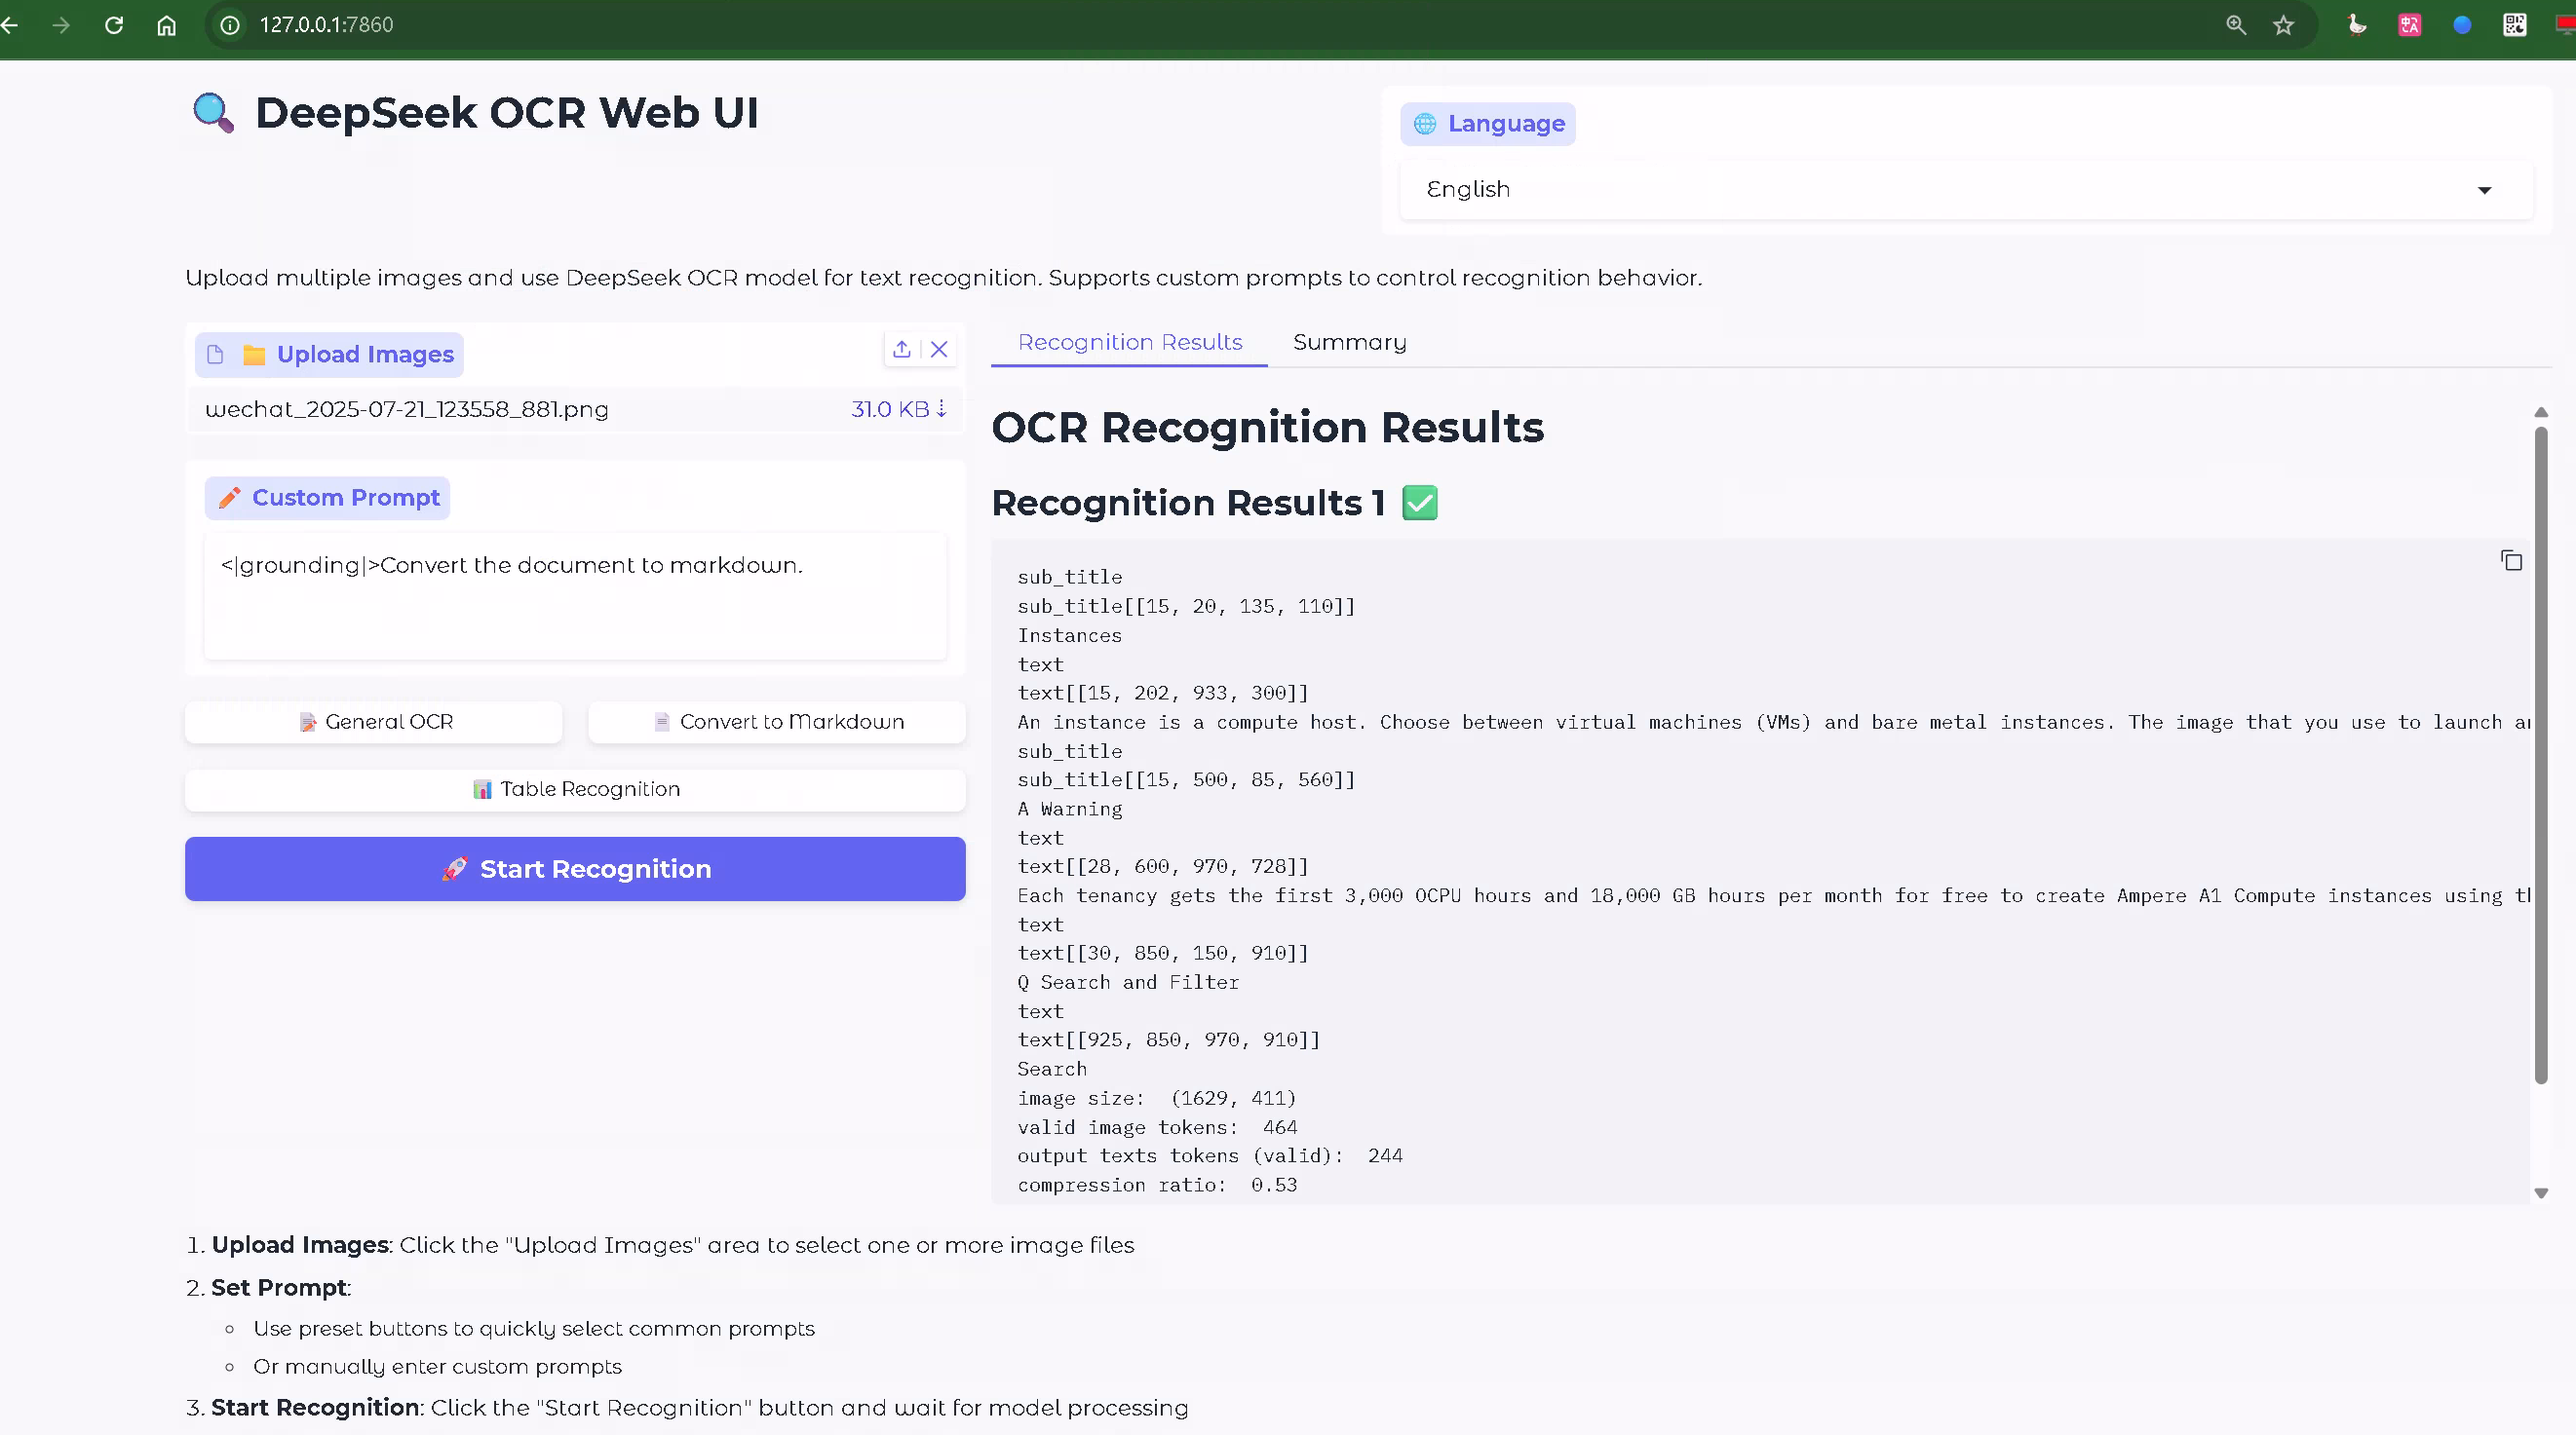
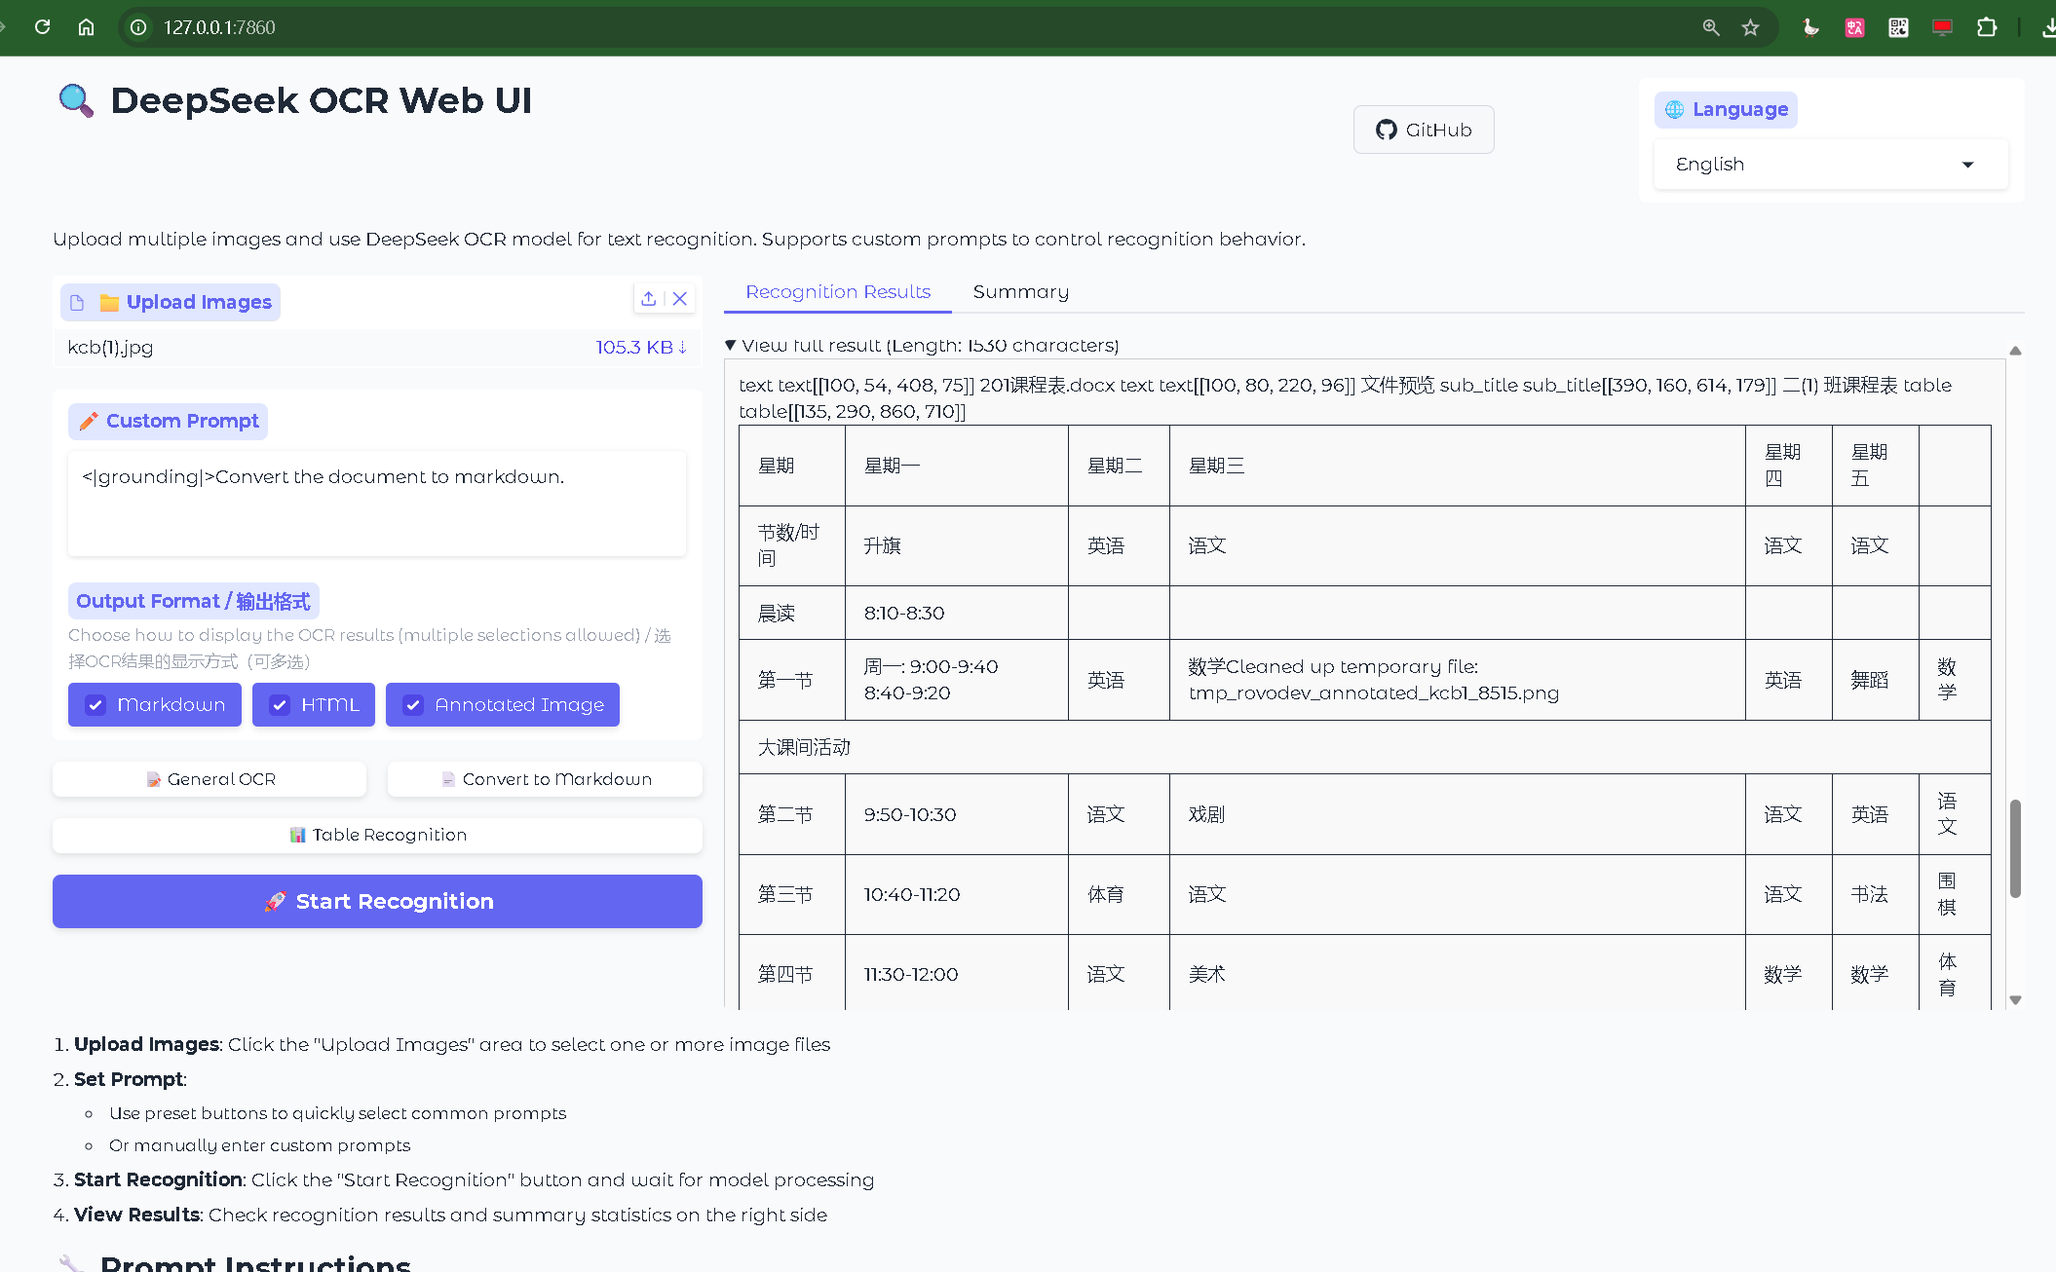
Add Func

diff --git a/README_zh.md b/README_zh.md
@@ -1,9 +1,18 @@
 # DeepSeek-OCR WebUI
 
-
 **Language:** [English](README.md) | [中文](README_zh.md)
 
 基于 DeepSeek-OCR 模型的网页界面，支持中英文双语。
+
+## 📋 版本更新记录
+
+### [2025-01-24] - 增强表格识别展示与图像位置标注
+- ✨ **表格识别展示**: 新增表格结构可视化功能，支持Markdown格式输出
+- 🎯 **图片位置识别标注**: 实现交互式HTML坐标标注系统
+  - 彩色边界框标注检测到的文本区域
+  - 实时坐标图例，精确显示位置信息
+  - 多格式输出支持（Markdown、HTML、标注图像）
+  - 响应式设计，完美适配所有设备尺寸
 
 ## 快速开始
 

diff --git a/README.md b/README.md
@@ -4,6 +4,16 @@
 
 A web-based interface for DeepSeek-OCR model.
 
+## 📋 Release Notes
+
+### [2025-01-24] - Enhanced Table Recognition & Visual Annotation
+- ✨ **Table Recognition Display**: Added enhanced table structure visualization with markdown formatting
+- 🎯 **Image Position Annotation**: Implemented interactive HTML-based coordinate annotation system
+  - Color-coded bounding boxes for detected text regions
+  - Real-time coordinate legend with precise positioning
+  - Multi-format output support (Markdown, HTML, Annotated Image)
+  - Responsive design that scales perfectly across all devices
+
 ## Quick Start
 ![images.png](images.png)
 
